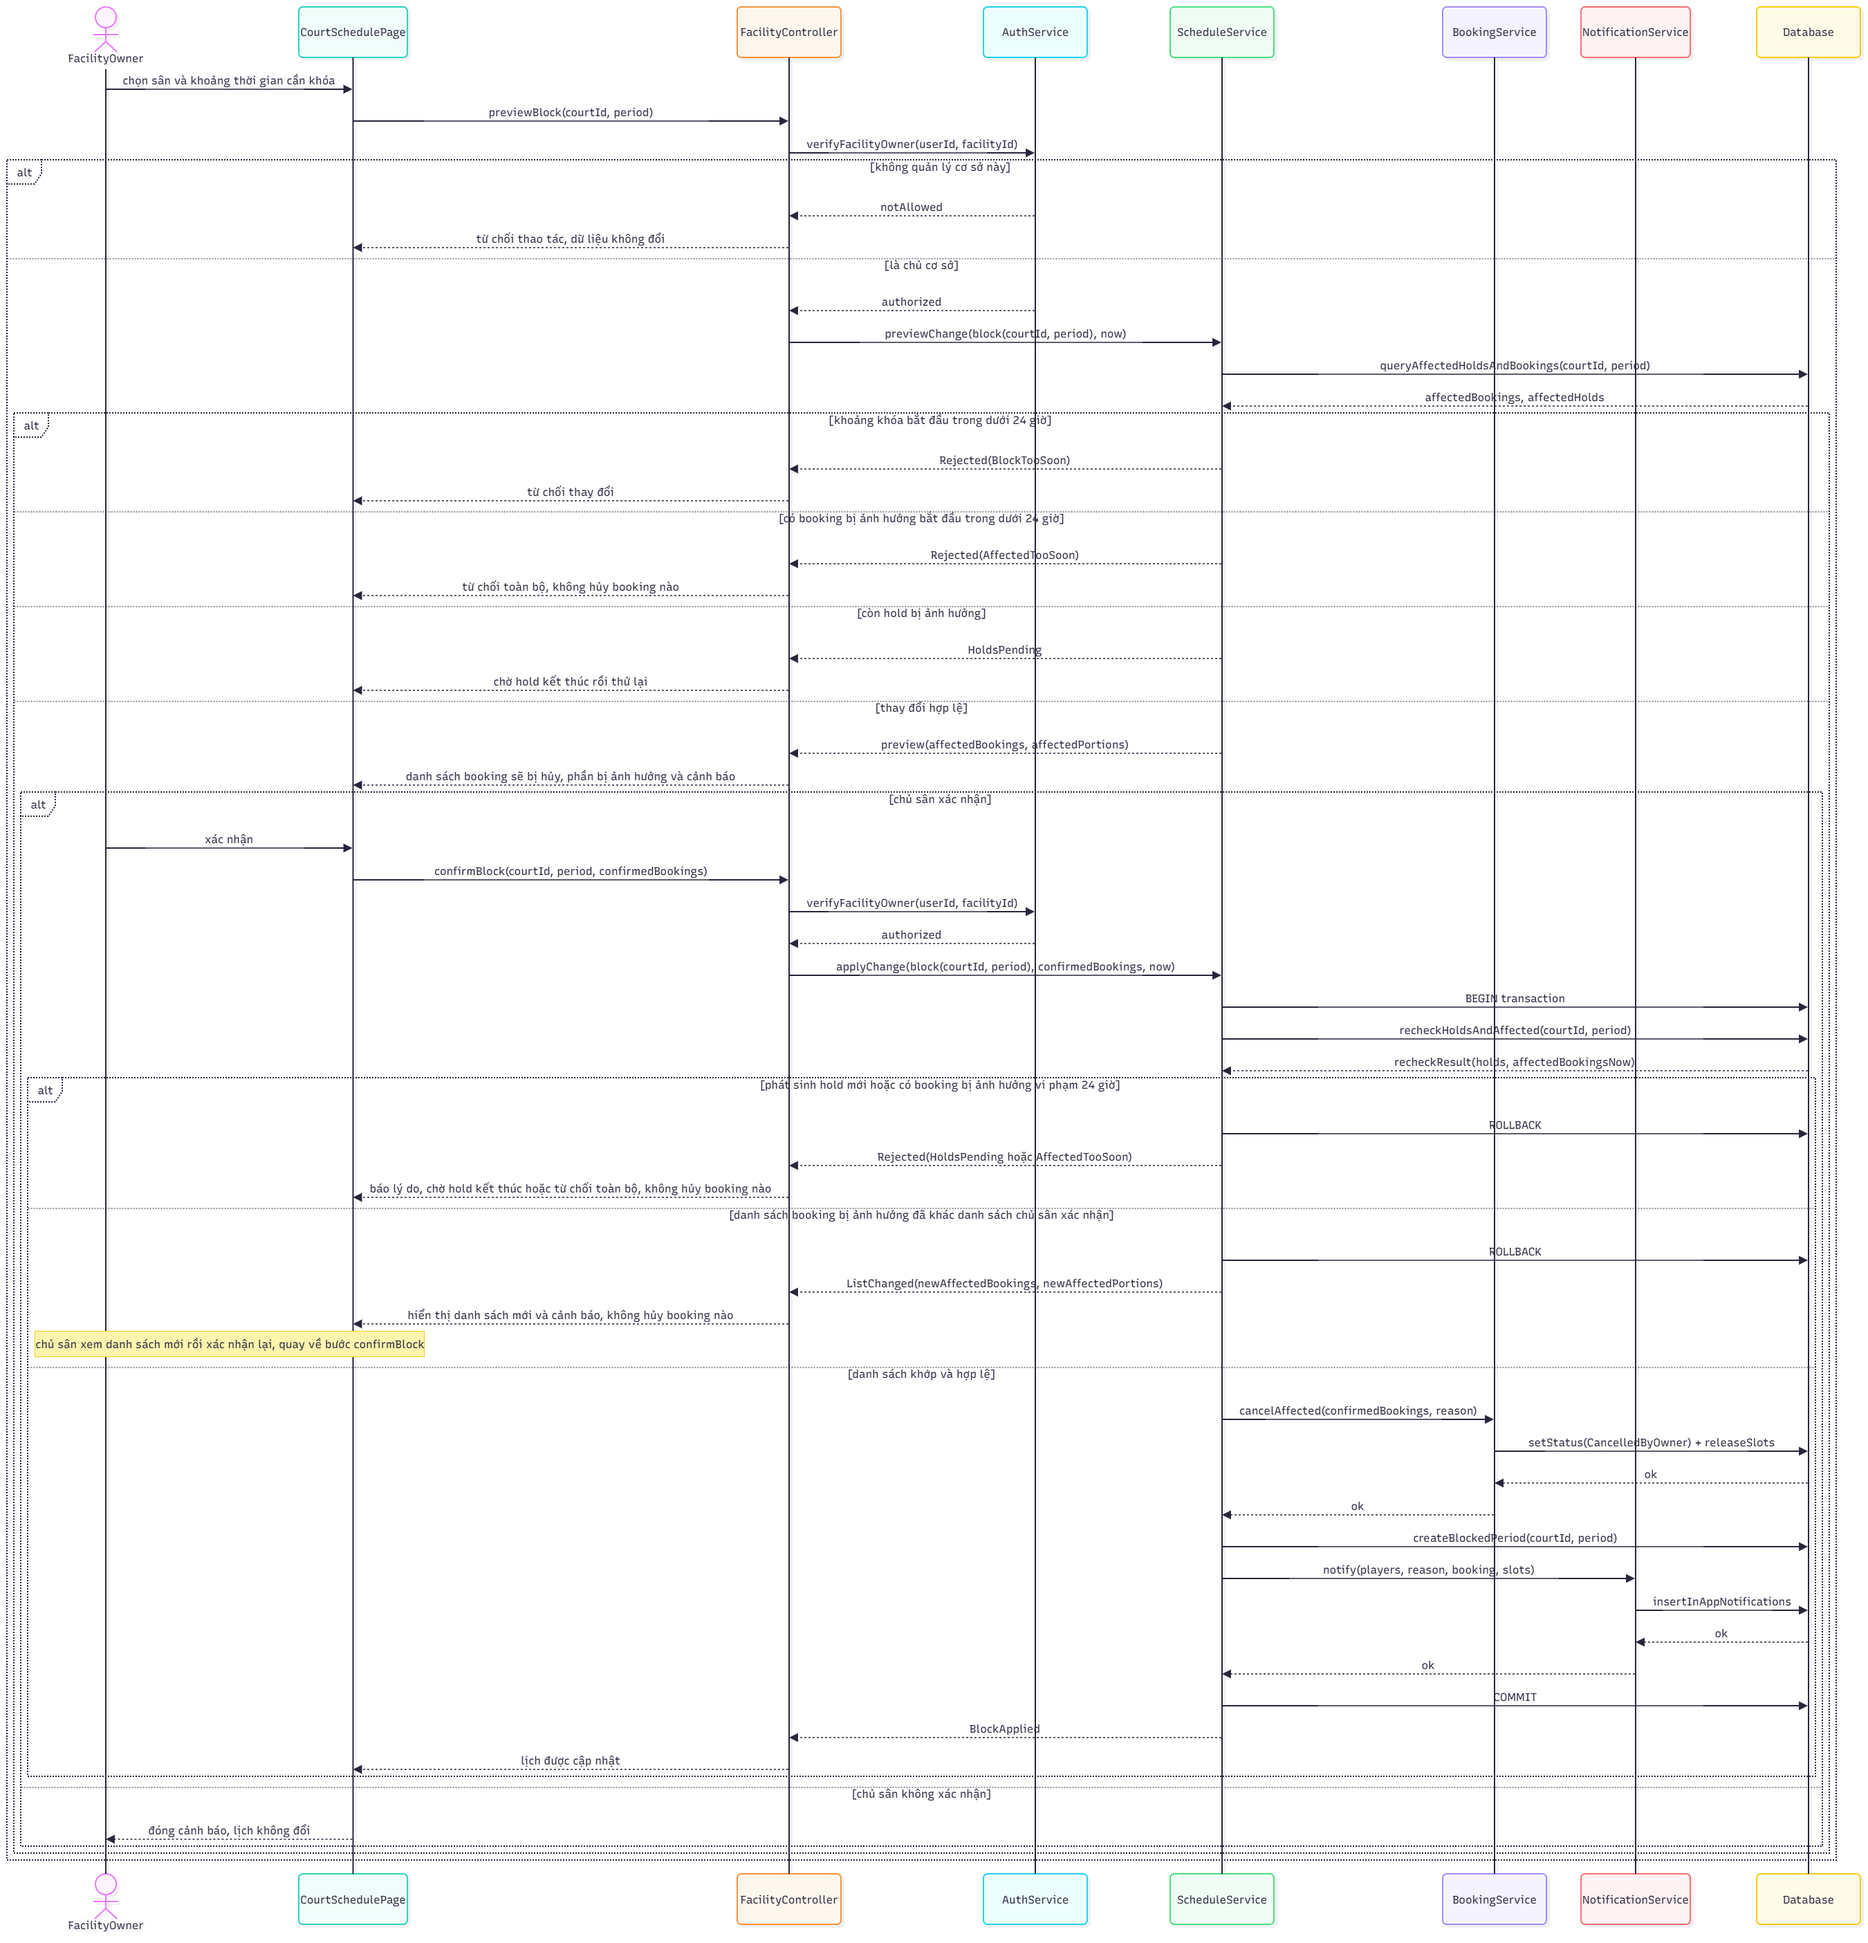
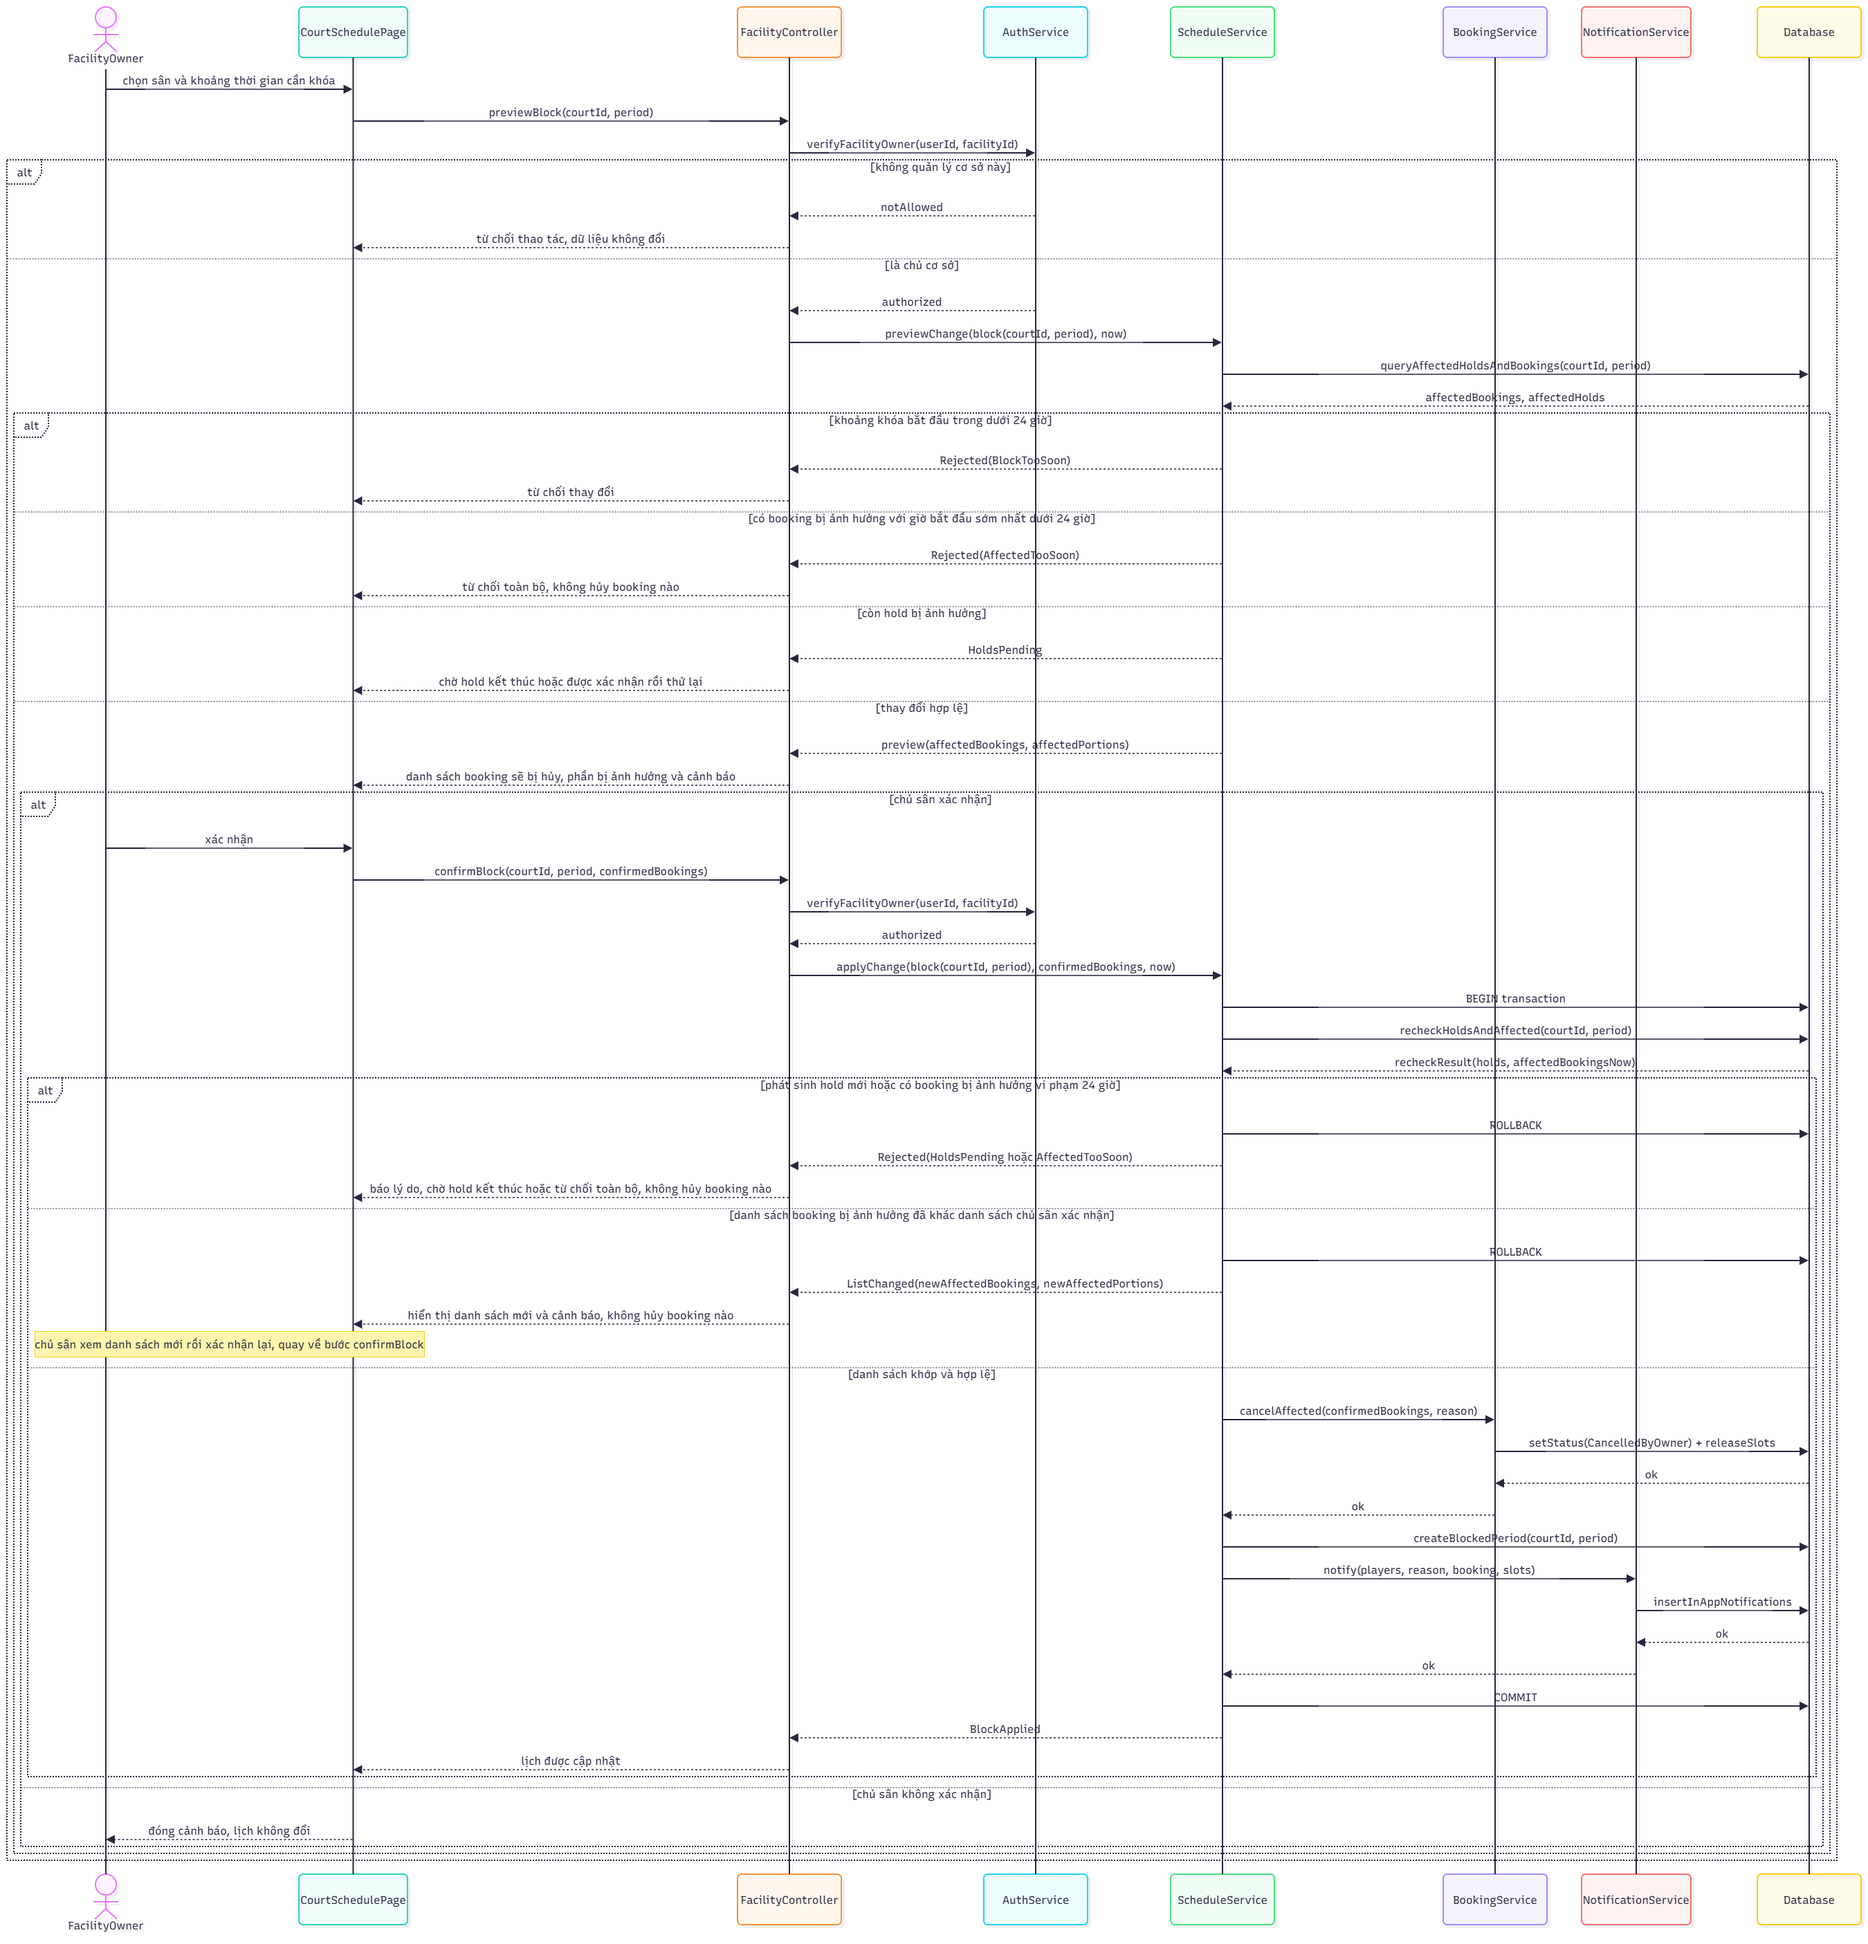
Add files via upload

diff --git a/docs/design/sequences/sequence-diagrams.md b/docs/design/sequences/sequence-diagrams.md
@@ -6,7 +6,7 @@
 
 * **Người chịu trách nhiệm chính:** Nguyễn Minh Trí (`@nmt1206`)
 
-* **Người kiểm tra:** Vĩ (`@Lysivi2005` — kiểm tra thao tác lớp); Khôi (`@KhoiVuong2210` — kiểm tra API/giao dịch/xung đột).
+* **Người kiểm tra:** Khoa (`@buikhoa130406` — kiểm tra luồng nghiệp vụ và thử nghiệm kết nối `#7`); Vĩ (`@Lysivi2005` — đối chiếu thao tác lớp `#31`, hợp đồng API `#12` và trạng thái giao diện `#29`).
 
 Năm sơ đồ tuần tự (sequence diagram) chính bao quát các use case có rủi ro thiết kế cao nhất: tạo hold (UC-05), xác nhận booking (UC-06), hủy booking (UC-08), khóa slot (UC-11) và nhập booking tại quầy (UC-13). Thêm một sơ đồ phụ `SEQ-02B` cho vòng đời hold (hết hạn, nhả, hủy, tải lại, đóng tab) vì đây là yêu cầu kiến trúc `ASR-G2`. UC-12 dùng chung luồng của UC-11 và được nêu ở phần so sánh `SEQ-04B`. Mỗi sơ đồ thể hiện luồng chính và các luồng thay thế do luật nghiệp vụ đòi hỏi. Mọi đường trả về đi qua đúng tầng `Database -> Service -> Controller -> Page`.
 
@@ -77,6 +77,7 @@ sequenceDiagram
 
 Người chơi xác nhận khi hold còn hiệu lực. Toàn bộ việc đọc hold, kiểm tra và ghi nằm trong **một transaction**: hold được khóa để đọc, kiểm tra quyền sở hữu, trạng thái `Active` và `now < expiresAt`, rồi kiểm tra lại các slot. Việc từ chối khi hết hạn dựa trên `expiresAt`, **không** chờ tác vụ nhả chạy (xem `SEQ-02B`). Nếu hợp lệ, booking được tạo ở trạng thái `Confirmed`, các slot chuyển sang `Booked` và hold đóng. Nếu xác nhận và nhả hết hạn xảy ra cùng lúc thì chỉ một bên thắng nhờ khóa trên hold.
 
+
 *Hình 4.4.2 — Sơ đồ tuần tự cho UC-06 (`SEQ-02`)*
 
 ```mermaid
@@ -135,7 +136,6 @@ Sơ đồ này thể hiện bốn tình huống của một hold đang `Active`:
 * **Người dùng hủy, quay lại hoặc đổi lựa chọn:** hold sang `Released` ngay và slot được nhả.
 * **Tải lại trang:** hold giữ nguyên `expiresAt`, giao diện đếm ngược tiếp, không đặt lại 5 phút (FR-25).
 * **Đóng tab hoặc mất kết nối:** giao diện cố gắng gửi yêu cầu nhả khi rời trang; nếu không phát hiện được thì hold hết hạn như tình huống đầu (FR-26).
-
 
 *Hình 4.4.2B — Sơ đồ tuần tự vòng đời hold (`SEQ-02B`)*
 
@@ -280,12 +280,12 @@ sequenceDiagram
         alt khoảng khóa bắt đầu trong dưới 24 giờ
             ScheduleService-->>FacilityController: Rejected(BlockTooSoon)
             FacilityController-->>CourtSchedulePage: từ chối thay đổi
-        else có booking bị ảnh hưởng bắt đầu trong dưới 24 giờ
+        else có booking bị ảnh hưởng với giờ bắt đầu sớm nhất dưới 24 giờ
             ScheduleService-->>FacilityController: Rejected(AffectedTooSoon)
             FacilityController-->>CourtSchedulePage: từ chối toàn bộ, không hủy booking nào
         else còn hold bị ảnh hưởng
             ScheduleService-->>FacilityController: HoldsPending
-            FacilityController-->>CourtSchedulePage: chờ hold kết thúc rồi thử lại
+            FacilityController-->>CourtSchedulePage: chờ hold kết thúc hoặc được xác nhận rồi thử lại
         else thay đổi hợp lệ
             ScheduleService-->>FacilityController: preview(affectedBookings, affectedPortions)
             FacilityController-->>CourtSchedulePage: danh sách booking sẽ bị hủy, phần bị ảnh hưởng và cảnh báo
@@ -334,7 +334,7 @@ sequenceDiagram
 
 * **Truy vết:** UC-13, FR-03, FR-10, FR-11, FR-12, FR-21, FR-22, FR-27, BR-03, BR-08, BR-10, BR-13, NFR-02..04, NFR-08, AC-07, AC-25, AC-33.
 
-Chủ sân đặt thay khách tại quầy theo đúng luồng của người chơi: chọn sân và slot, giữ chỗ, rồi xác nhận (UC-05 và UC-06). Khác biệt: hệ thống kiểm tra chủ sân có quản lý cơ sở đó, chủ sân được miễn giới hạn đặt trước 2 slot (FR-27), nhưng vẫn không được đè lên slot đang held hoặc booked (BR-13). Booking được ghi vào lịch chung với nguồn là `in-person` (không lưu thông tin khách). Hold hết hạn, nhả, tải lại và đóng tab xử lý như `SEQ-02B`.
+Chủ sân đặt thay khách tại quầy theo đúng luồng của người chơi: chọn sân và slot, giữ chỗ, rồi xác nhận (UC-05 và UC-06). Khác biệt: hệ thống kiểm tra chủ sân có quản lý cơ sở đó, chủ sân được miễn giới hạn đặt trước 2 slot (FR-27), nhưng vẫn không được đè lên slot đang held hoặc booked (BR-13). Booking được ghi vào lịch chung với nguồn là `in-person` (không lưu thông tin khách, `ASM-09`). Hold hết hạn, nhả, tải lại và đóng tab xử lý như `SEQ-02B`.
 
 
 *Hình 4.4.5 — Sơ đồ tuần tự cho UC-13 (`SEQ-05`)*
@@ -407,7 +407,7 @@ UC-12 (đổi giờ hoạt động hoặc xóa sân) không có sơ đồ riêng
 | Hạng mục | Nội dung |
 | ----- | ----- |
 | **Dùng chung** | Kiểm tra quyền chủ sở hữu cơ sở (cả lúc xem trước và lúc xác nhận); xem trước các booking và hold bị ảnh hưởng; chờ hold kết thúc; từ chối toàn bộ nếu một booking bị ảnh hưởng bắt đầu trong dưới 24 giờ (đúng 24 giờ vẫn được); cảnh báo; xác nhận rồi kiểm tra lại (kể cả so danh sách bị ảnh hưởng với danh sách chủ sân đã xác nhận, khác thì trả danh sách mới để xác nhận lại); hủy toàn bộ booking bị ảnh hưởng và ghi thay đổi lịch cùng thông báo trong một transaction (BR-11, FR-03, FR-29, FR-30). |
-| **Khác biệt** | Tham số `change` của `previewChange`/`applyChange` là thay đổi giờ hoạt động hoặc việc xóa sân, không phải `block(courtId, period)`. Tập bị ảnh hưởng là các booking tương lai có slot nằm ngoài giờ mới (đổi giờ) hoặc mọi booking tương lai của sân (xóa sân). Không áp quy tắc "khoảng khóa phải bắt đầu sau 24 giờ" của BR-12 vì không có khoảng khóa; chỉ áp luật 24 giờ của FR-29 cho booking bị ảnh hưởng. Bước ghi cuối cập nhật giờ hoạt động hoặc xóa sân (cách lưu do 3.1.2 quyết định) thay vì tạo `BlockedPeriod`. Màn hình xem trước nêu cả phần bị ảnh hưởng của từng booking (UC-12 bước 3). Nếu không có booking nào bị ảnh hưởng thì không hủy gì (A1), và chủ sân có thể hủy thao tác trước khi xác nhận (A2). |
+| **Khác biệt** | Tham số `change` của `previewChange`/`applyChange` là thay đổi giờ hoạt động hoặc việc xóa sân, không phải `block(courtId, period)`. Tập bị ảnh hưởng là các booking tương lai có slot nằm ngoài giờ mới (đổi giờ) hoặc mọi booking tương lai của sân (xóa sân). Không áp quy tắc "khoảng khóa phải bắt đầu sau 24 giờ" của BR-12 vì không có khoảng khóa; chỉ áp luật 24 giờ của FR-29 cho booking bị ảnh hưởng. Bước ghi cuối cập nhật giờ hoạt động hoặc xóa sân (cách lưu do 3.1.2 quyết định, `ASM-08`) thay vì tạo `BlockedPeriod`. Màn hình xem trước nêu cả phần bị ảnh hưởng của từng booking (UC-12 bước 3). Nếu không có booking nào bị ảnh hưởng thì không hủy gì (A1), và chủ sân có thể hủy thao tác trước khi xác nhận (A2). |
 | **Operation** | Dùng lại `verifyFacilityOwner`, `previewChange`, `applyChange`, `cancelAffected` và `notify`; chỉ khác hai điểm vào ở `FacilityController` (xem trước/xác nhận thay đổi giờ hoạt động hoặc xóa sân) và thao tác ghi cuối. |
 
 ## 8. Các operation dùng trong sơ đồ tuần tự (`SEQ-OPS`)
@@ -454,6 +454,7 @@ UC-12 (đổi giờ hoạt động hoặc xóa sân) không có sơ đồ riêng
 
 * **Điểm còn mở cần người kiểm tra xác nhận:**
 
-  * `@Lysivi2005`: xác nhận bảng `SEQ-OPS` (Mục 8), gồm `ReleaseJob` thuộc thành phần nào, khớp tên lớp và phương thức trong Class Diagram (3.3.2).
-
-  * `@KhoiVuong2210`: xác nhận ranh giới transaction ở `createHoldAtomically`, `confirmBooking`, `cancelBooking`, `applyChange`; cách `applyChange` bảo đảm không có hold mới chen vào giữa lúc áp dụng; chu kỳ nhả không quá 1 giây đạt mốc 5 giây (cần thử nghiệm 2.3.1); các kết quả lỗi nghiệp vụ trong đặc tả API (3.1.4).
+  * `@Lysivi2005` (phụ trách Class Diagram `#31`, API `#12`, UI `#29`):
+    * Đồng bộ tên lớp và chữ ký `createHold` (cùng bảng `SEQ-OPS` Mục 8 và vị trí của `ReleaseJob`) với sơ đồ lớp ở PR `#31` (Task 3.3.2), kể cả cách xác định ngữ cảnh đặt tại quầy.
+    * Ghi cùng một cách trả ba kết quả giải phóng giữ chỗ (`Releasing`, `ReleaseFailed`, `Released`) trong đặc tả giao tiếp API `#12` (Task 3.1.4) và cách UI ở PR `#29` (Task 3.2.1) xử lý từng kết quả (giao diện chỉ cho chọn lại sau khi nhận `Released`).
+  * `@buikhoa130406` (phụ trách thử kết nối `#7` — Task 2.3.1): kiểm chứng chu kỳ nhả không quá 1 giây; mốc giải phóng 5 giây cần bằng chứng đo riêng.
